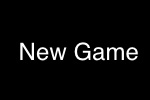
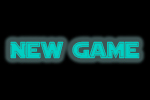
new version

Changed region(s): [[0.0267, 0.36, 0.9867, 0.66]]

diff --git a/src/game.py b/src/game.py
@@ -10,28 +10,19 @@ b = -1
 right = 0
 wrong = 0
 status = "HAI..."
+maxim_good = 10
+maxim_bad = 1
 maxim = 100
-no_questions = 30
 photo_path = "photo/"
+to_do = 0
 
 def init():
     global right
     global wrong
+    global to_do
     right = 0
     wrong = 0
-    status = "HAI..."
-    label_top_a1.place(relx=0.5, rely=0.5)
-    label_top_b1.place(relx=0.5, rely=0.5)
-    label_top_c1.place(relx=0.5, rely=0.5)
-    btn_big.place(relx=0.5, rely=0.5)
-    btn_eq.place(relx=0.5, rely=0.5)
-    btn_small.place(relx=0.5, rely=0.5)
-    label_top_b3.place(relx=0.5, rely=0.5)
-    label_top_a3.config(text=status)
-    label_top_a3.place(relx=0.5, rely=0.5)
-    btn_big.config(state=NORMAL)
-    btn_eq.config(state=NORMAL)
-    btn_small.config(state=NORMAL)
+    to_do = 1    
     new_game()
 
 def h_new_game(event):
@@ -40,6 +31,14 @@ def h_new_game(event):
 def h_exit(event):
     exit_game()
 
+def h_is_small(event):
+    if to_do: is_small()
+
+def h_is_eq(event):
+    if to_do: is_eq()
+
+def h_is_big(event):
+    if to_do: is_big()
 
 def new_game():
     global a
@@ -47,26 +46,28 @@ def new_game():
     global right
     global wrong
     global status
-    global maxim
-    global no_questions
-    if right == no_questions:
-        status = "BRAVO MATEI !!!"
-        label_top_a3.config(text=status)
-        btn_big.config(state=DISABLED)
-        btn_eq.config(state=DISABLED)
-        btn_small.config(state=DISABLED)
-    elif wrong == no_questions:
-        status = "GAME OVER!!!"
-        label_top_a3.config(text=status)
-        btn_big.config(state=DISABLED)
-        btn_eq.config(state=DISABLED)
-        btn_small.config(state=DISABLED)
+    global maxim_good
+    global maxim_bad
+    global to_do
+    if right == maxim_good:
+        img_status = ImageTk.PhotoImage(Image.open(photo_path + "bravo_matei.jpg"))
+        label_status.config(image=img_status)
+        label_status.image = img_status
+        to_do = 0        
+    elif wrong == maxim_bad:
+        img_status = ImageTk.PhotoImage(Image.open(photo_path + "game_over.jpg"))
+        label_status.config(image=img_status)
+        label_status.image = img_status
+        to_do = 0        
     else: 
         a = random.randint(0, maxim)
         b = random.randint(0, maxim)
         label_top_a1.config(text=str(a))
         label_top_c1.config(text=str(b))
-    label_top_b3.config(text=str(right) + " / " + str(wrong))
+        img_status = ImageTk.PhotoImage(Image.open(photo_path + "hai_matei.jpg"))
+        label_status.config(image=img_status)
+        label_status.image = img_status
+    label_right_c3.config(text=str(right) + " / " + str(maxim_good))
 
 def exit_game():
 	root.destroy()
@@ -81,7 +82,6 @@ def is_big():
     else:
         wrong += 1
     new_game()
-
 
 def is_eq():
     global a
@@ -107,64 +107,50 @@ def is_small():
 
 
 root = tk.Tk()
-root.title("HAI MATEI...")
+root.title("...MAT_0...")
 root.geometry("500x500")
 root.resizable(0, 0)
 
-frame_top = tk.Frame(root, bg="yellow", height=300, width=500)
-frame_top.grid(row=0, column=0)
-frame_top.grid_propagate(0)
-frame_bottom = tk.Frame(root, bg="red", height=200, width=500)
-frame_bottom.grid(row=1, column=0)
-frame_bottom.grid_propagate(0)
+img_bg = ImageTk.PhotoImage(Image.open(photo_path + "fundal.jpg"))
+label_bg = tk.Label(root, image=img_bg)
+label_bg.place(relx=0, rely=0, relwidth=1, relheight=1)
 
-frame_top_a1 = tk.Frame(frame_top, bg="green", height=100, width=100)
-frame_top_a1.grid(row=0, column=0)
-frame_top_a1.grid_propagate(0)
-frame_top_b1 = tk.Frame(frame_top, bg="blue", height=100, width=100)
-frame_top_b1.grid(row=0, column=1)
-frame_top_c1 = tk.Frame(frame_top, bg="grey", height=100, width=100)
-frame_top_c1.grid(row=0, column=2)
-frame_top_a2 = tk.Frame(frame_top, bg="grey", height=100, width=100)
-frame_top_a2.grid(row=1, column=0)
-frame_top_b2 = tk.Frame(frame_top, bg="black", height=100, width=100)
-frame_top_b2.grid(row=1, column=1)
-frame_top_c2 = tk.Frame(frame_top, bg="brown", height=100, width=100)
-frame_top_c2.grid(row=1, column=2)
-frame_top_a3 = tk.Frame(frame_top, bg="red", height=100, width=300)
-frame_top_a3.grid(row=2, column=0, columnspan=3)
-frame_top_b3 = tk.Frame(frame_top, bg="grey", height=100, width=100)
-frame_top_b3.grid(row=2, column=4)
+label_top_a1 = tk.Label(root, text="A", foreground="white", background="black", font=("Helvetica", 32))
+label_top_a1.place(x=0, y=0, width=100, height=100)
+label_top_c1 = tk.Label(root, text="B", foreground="white", background="black", font=("Helvetica", 32))
+label_top_c1.place(x=200, y=0, width=100, height=100)
 
-label_top_a1 = tk.Label(frame_top_a1, text="A")
-label_top_b1 = tk.Label(frame_top_b1, text="?")
-label_top_c1 = tk.Label(frame_top_c1, text="B")
-btn_big = tk.Button(frame_top_a2, text=">", command=is_big)
-btn_eq = tk.Button(frame_top_b2, text="=", command=is_eq)
-btn_small = tk.Button(frame_top_c2, text="<", command=is_small)
-label_top_a3 = tk.Label(frame_top_a3, text="...STATUS...")
-label_top_b3 = tk.Label(frame_top_b3, text="...")
+img_small = ImageTk.PhotoImage(Image.open(photo_path + "mai_mic.jpg"))
+label_small = tk.Label(root, image=img_small)
+label_small.place(x=0, y=100, width=100, height=100)
+label_small.bind("<Button-1>", h_is_small)
 
-frame_bottom_a1 = tk.Frame(frame_bottom, bg="green", height=100, width=150)
-frame_bottom_a1.grid(row=0, column=0)
-frame_bottom_a1.grid_propagate(0)
-frame_bottom_b1 = tk.Frame(frame_bottom, bg="blue", height=100, width=150)
-frame_bottom_b1.grid(row=0, column=1)
+img_eq = ImageTk.PhotoImage(Image.open(photo_path + "egal.jpg"))
+label_eq = tk.Label(root, image=img_eq)
+label_eq.place(x=100, y=100, width=100, height=100)
+label_eq.bind("<Button-1>", h_is_eq)
 
-# btn_new_game = tk.Button(frame_bottom_a1, text="New Game", command=init)
-# btn_new_game.place(relx=0, rely=0)
-btn_exit = tk.Button(frame_bottom_b1, text="Exit", command=exit_game)
-btn_exit.place(relx=0, rely=0)
+img_big = ImageTk.PhotoImage(Image.open(photo_path + "mai_mare.jpg"))
+label_big = tk.Label(root, image=img_big)
+label_big.place(x=200, y=100, width=100, height=100)
+label_big.bind("<Button-1>", h_is_big)
+
+label_right_c3 = tk.Label(root, text=str(right) + " / " + str(maxim_good), 
+    foreground="white", background="black", font=("Helvetica", 32))
+label_right_c3.place(x=300, y=400, width=200, height=100)
+
+img_status = ImageTk.PhotoImage(Image.open(photo_path + "hai_matei.jpg"))
+label_status = tk.Label(root, image=img_status)
+label_status.place(x=0, y=200, width=300, height=100)
 
 img_new_game = ImageTk.PhotoImage(Image.open(photo_path + "new_game.jpg"))
-label_new_game = tk.Label(frame_bottom_a1, image=img_new_game)
-label_new_game.place(relx=0, rely=0, relwidth=1, relheight=1)
+label_new_game = tk.Label(root, image=img_new_game)
+label_new_game.place(x=0, y=300, width=150, height=100)
 label_new_game.bind("<Button-1>", h_new_game)
 
 img_exit = ImageTk.PhotoImage(Image.open(photo_path + "exit.jpg"))
-label_exit = tk.Label(frame_bottom_b1, image=img_exit)
-label_exit.place(relx=0, rely=0, relwidth=1, relheight=1)
+label_exit = tk.Label(root, image=img_exit)
+label_exit.place(x=150, y=300, width=150, height=100)
 label_exit.bind("<Button-1>", h_exit)
-
 
 root.mainloop()
